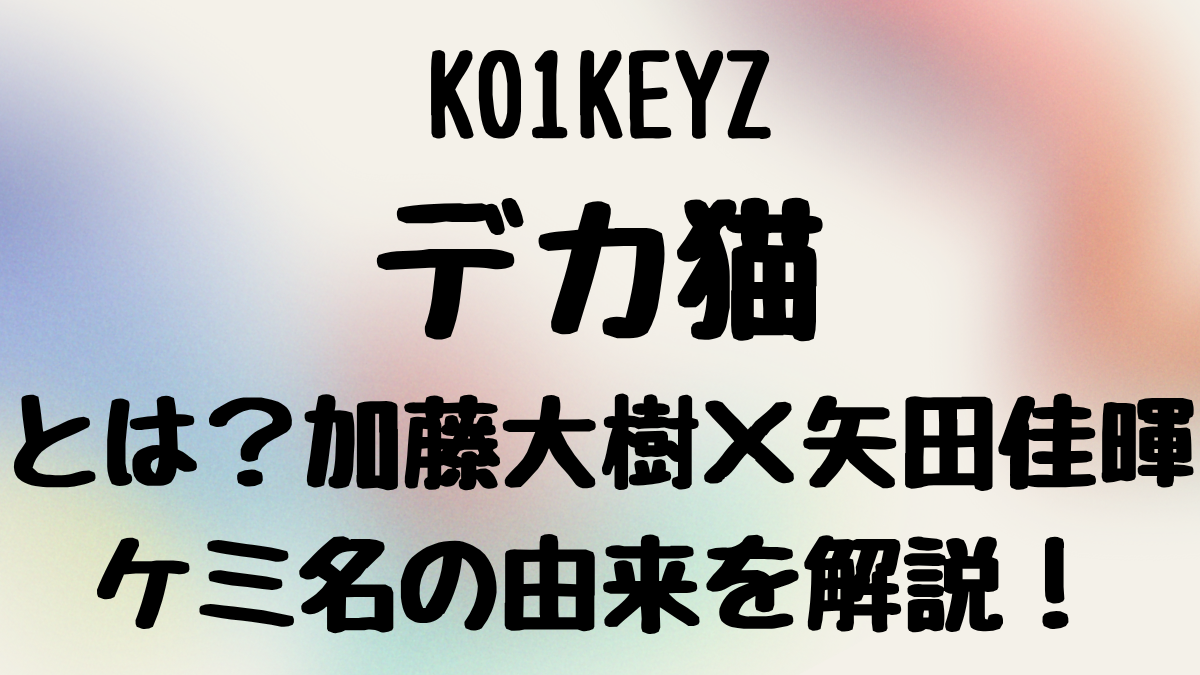
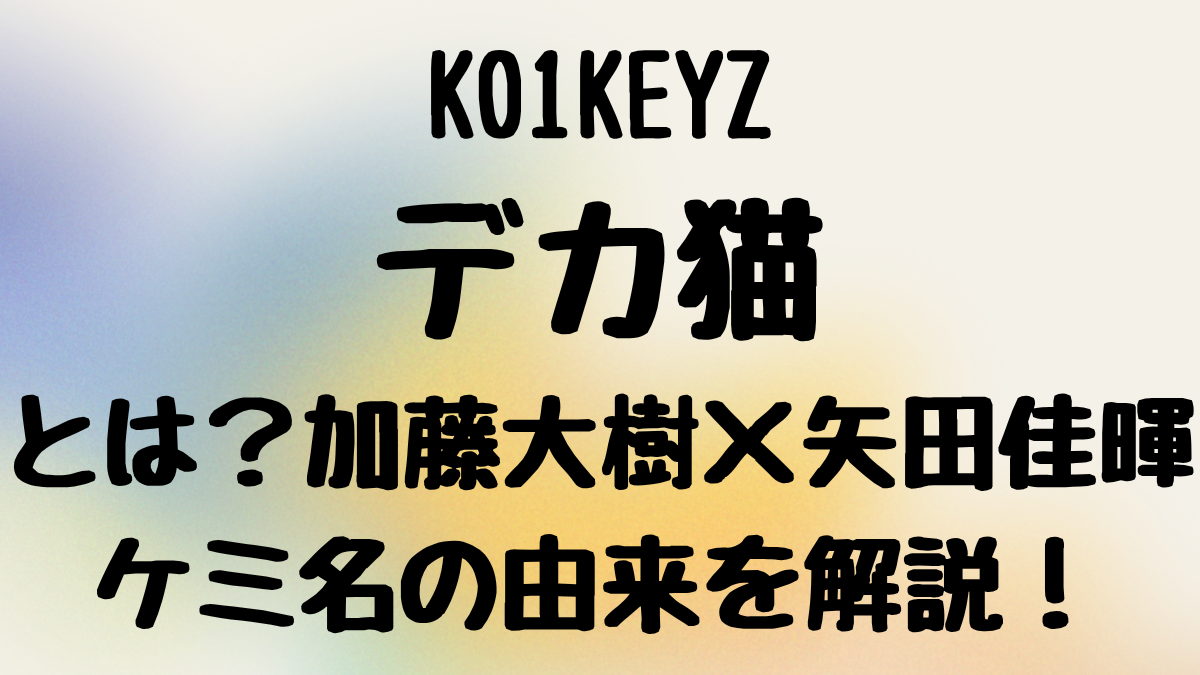
docs(canva-mcp): コイキーズのアイキャッチはCanva MCPで作り、毎回色を変えるルールを追加
- トモキ指示(2026-07-15): KO1KEYZサイトのアイキャッチは今後すべてCanva MCP方式で作る。色は毎回ランダムに変える(全記事が違う色でカラフルなのがサイトの統一感のため)
- 色替え用の背景アセット9種(Glowy Gradient Abstract Brush Stroke Blob)をカタログ化
- 複製元はページ36に固定。他ページはfind_and_replace_textが「1つのregion内の改行より後ろ」を置換できずサイレント失敗する(successが返るのに反映されない)ため使用禁止
- blog-uploadスキルのSTEP4とCLAUDE.mdのツール説明も同方針に更新(eyecatch_koikeyz.pyはフォールバック扱いに降格)

diff --git a/CLAUDE.md b/CLAUDE.md
@@ -73,8 +73,8 @@
   - YouTube文字起こしは「字幕優先(youtube-transcript-api)→無ければWhisper(faster-whisper)で音声文字起こし」の2段構成。GPUがあれば自動でCUDAを使い(無ければCPU int8)、複数動画処理時は字幕チェックの並列化・音声DLと文字起こしのパイプライン化で高速化してある(2026-07-02改良)。
 - **Codex**: 記事・文書生成に使用。詳細は codex-writing スキル参照。
 - **LINE通知**(`tools/line_notify.py`): 記事の更新・リライト提案時、および`koikeyz-monitor`の毎朝の監視結果報告でLINEへプッシュ通知するツール(2026-07-05追加)。LINE Notifyは2025年3月にサービス終了済みのため、LINE公式アカウント(Messaging API)のチャネルアクセストークンを使う方式。`.env`の`LINE_CHANNEL_ACCESS_TOKEN`/`LINE_USER_ID`が未設定の場合は通知だけスキップされ、他の処理は止まらない。初回セットアップ手順は[docs/line-notify-setup.md](docs/line-notify-setup.md)を参照(フォロワーID一覧APIは無料プランだと使えないため要注意)。呼び出し元はkoikeyz-rewriteスキル(リライト提案時・更新完了時・Gemini失敗時のフォールバック要約)と`tools/koikeyz-monitor/x_monitor.py`(毎朝、結果に関わらず必ず通知)。なお「LINE返信でマツが自動執筆する」パイプラインは本番ドメインのDNS移行リスクを理由に見送り済み([docs/line-notify-setup.md](docs/line-notify-setup.md)参照)。
-- **Canva MCP**(`https://mcp.canva.com/mcp`): chomoand-1.comのアイキャッチをCanvaの本物のテンプレ・フォントで作るための公式リモートMCP(2026-07-15追加、`.mcp.json`に登録済み)。**PCごとに`/mcp`からの認証が必要**。接続状況・運用フロー・プランごとの制限は[docs/canva-mcp.md](docs/canva-mcp.md)参照。
-- **KO1KEYZアイキャッチ生成**(`tools/eyecatch_koikeyz.py`): chomoand-1.com(コイキーズブログ)専用のアイキャッチ生成ツール(2026-07-15追加)。既存記事はすべてトモキがCanvaの「Webinar/Keynote Presentation」テンプレで作ったデザインで統一されているため、マツが記事を書くときも同じ見た目になるようHTML+Playwrightで再現する。フォント(M PLUS Rounded 1c Black、OFL)は`assets/fonts/`に同梱済み。使い方・デザイン仕様は[docs/eyecatch-style.md](docs/eyecatch-style.md)参照。**コイキーズ記事のアイキャッチを勝手に別デザインで作らないこと。**
+- **Canva MCP**(`https://mcp.canva.com/mcp`): chomoand-1.com(コイキーズブログ)のアイキャッチを作るための公式リモートMCP(2026-07-15追加、`.mcp.json`に登録済み)。**コイキーズ記事のアイキャッチは必ずこれで作る**(2026-07-15にトモキが指示・動作検証済み)。トモキの既存デザイン(`DAG_zqaJE_8`)のページ36を複製してテキストを差し替える方式で、フォント・レイアウトが本物と完全に一致する。**背景の色は毎回ランダムに変える**(サイトの全記事が違う色で統一されているため)。**PCごとに`/mcp`からの認証が必要**。手順・ハマりどころ・色替え用アセット一覧は[docs/canva-mcp.md](docs/canva-mcp.md)参照。
+- **KO1KEYZアイキャッチ生成**(`tools/eyecatch_koikeyz.py`): 上記Canva MCPの**フォールバック**(2026-07-15追加)。Canvaが認証切れなどで使えないときだけ使う。HTML+Playwrightで見た目を再現するがフォントだけ本物と違う(M PLUS Rounded 1c Black)。使い方・デザイン仕様は[docs/eyecatch-style.md](docs/eyecatch-style.md)参照。**コイキーズ記事のアイキャッチを勝手に別デザインで作らないこと。**
 - **YouTube急上昇取得**(`tools/youtube_trending.py`): **2026-07-14に路線撤回したため現在は未使用**(chomoand.comは恋リア特化へ。ツールとスキルは消さずに残してある)。以下は当時の説明。chomoand.com旧方針(TikTok/YouTube発バズインフルエンサーのwiki記事)のネタ探し用。YouTube Data API v3で日本の急上昇動画を取得する。`.env`の`YOUTUBE_API_KEY`が必要(2026-07-06追加)。セットアップ手順は[docs/youtube-api-setup.md](docs/youtube-api-setup.md)、使い方は[youtube-trendingスキル](.claude/skills/youtube-trending/SKILL.md)参照。YouTube急上昇ページ・TikTok Creative CenterはどちらもJS描画でWebFetchでは中身が取れないため、API経由で取得する方式にした。TikTok側は現時点で自動取得の手段なし。
 - **Xトレンド監視**(`tools/x-trend-monitor/`): **2026-07-14にユーザー指示で停止中**(タスクスケジューラの`X-Trend-Monitor`を`Disable-ScheduledTask`で無効化。削除はしていないので`Enable-ScheduledTask`で復帰できる)。再開の指示があるまで勝手に有効化しないこと。以下は仕組みの説明。chomoand.com(トレンドブログ)の全自動記事化パイプラインの入口(2026-07-10追加)。タスクスケジューラ(タスク名: `X-Trend-Monitor`)で6時間おきに`trend_monitor.py`がXのトレンドページ(x.com/explore/tabs/trending)を取得し、新トレンド(同一語24時間クールダウン、1回最大3件、プロモーション枠除外)を検知すると`claude -p`でヘッドレスClaudeを起動して[x-trend-articleスキル](.claude/skills/x-trend-article/SKILL.md)の自動記事化(リサーチ→執筆→**下書き**投稿→LINE通知)を実行する。トークン節約のため、実行間隔は当初の30分から6時間に延ばし、パイプラインが呼ぶClaudeも`--model claude-sonnet-5`(定数`CLAUDE_MODEL`)でSonnet指定にしてある(2026-07-11、ユーザー指示)。`claude`はネイティブインストール(`~/.local/bin/claude.exe`)でタスクスケジューラの最小PATH環境では名前解決できないため、`resolve_claude_command()`がフルパスで解決する(PATH非依存)。フェーズ1運用のため**公開は必ずユーザー承認制**(LINE通知を見て「公開して」と指示)。koikeyz-monitorと同じログイン済みプロファイル方式だがプロファイルは独立(`%USERPROFILE%\x_trend_monitor_profile`、初回にPCごとに`login_x.py`を手動実行)。多重起動は`pipeline.lock`とタスク側`IgnoreNew`で防止。`monitor_state.json`・`reports/`はGit管理外。ログイン状態とタスク登録がPC固有なため、登録したPC上でのみ動作する。
 - **Googleインデックス登録**(`tools/google_indexing.py`): 記事公開時にURLをGoogle Indexing APIへ送信し、即時インデックス登録をリクエストするツール(2026-07-09追加)。[publishスキル](.claude/skills/publish/SKILL.md)から自動で呼ばれる。サービスアカウントのJSON鍵が必要で、`.env`の`GOOGLE_INDEXING_CREDENTIALS_PATH`が未設定の場合は通知だけスキップされ、公開処理自体は止まらない(LINE通知と同じフェイルセーフ方式)。セットアップ手順は[docs/google-indexing-setup.md](docs/google-indexing-setup.md)参照。Indexing APIは規約上Job Posting/BroadcastEvent専用が本来の用途で、ブログ記事への利用は黙認されている状態である点に注意。

diff --git a/docs/canva-mcp.md b/docs/canva-mcp.md
@@ -39,29 +39,64 @@ chomoand-1.com(コイキーズブログ)のアイキャッチは、トモキがC
 
 ## 運用フロー(検証済み)
 
-1. **元デザインから1ページだけ複製する**
+1. **元デザインから「ページ36」だけを複製する**
    - `copy-design(design_id="DAG_zqaJE_8", page_numbers=[36])`
-   - ページ番号は「文言の行数構成が近い既存ページ」を選ぶ。36は4行構成の標準形。
+   - **複製元は必ずページ36にする**。理由は下の「⚠ ページ36以外を使ってはいけない理由」を参照。
    - → 1ページだけの新デザインができる
 
 2. **編集トランザクションを開いてテキスト要素IDを取得する**
    - `start-editing-transaction(design_id=<複製したID>)`
-   - レスポンスに`element_id`と現在の4行テキスト、プレビュー画像が返る
+   - レスポンスに`element_id`と現在の4行テキスト、背景画像2枚の`element_id`、プレビュー画像が返る
 
 3. **行単位でテキストを差し替える**
    - **必ず`find_and_replace_text`を行ごとに1回ずつ**呼ぶ(4回)
    - ⚠ `replace_text`で4行まとめて置換すると**行ごとのフォントサイズが飛んで全部同じ大きさになる**。絶対に使わないこと。
    - ついでに`update_title`でデザイン名を記事名にしておくと後で探しやすい
 
-4. **コミットする**
+4. **背景の色を変える(毎回必ずやる)**
+   - トモキの指示(2026-07-15):「サイトのアイキャッチは全部色が違ってカラフル。**毎回色を変えること**。色使いはマツがランダムに選んでよい」
+   - ブラシストローク要素(ページ36では`...-LBsTwKB5X1rWZS4T`、alt_textが`a colorful gradient brush stroke`のほう)に対して:
+     - `update_fill`で**下のアセット一覧からランダムに1つ選んで**差し替える
+     - `resize_element`(`preserve_aspect_ratio: true`、width 1600〜2300程度)+ `position_element`でランダムに配置する
+   - ブラシが画面の外に大きくはみ出していると色がほとんど出ない。**画面中央〜全体を覆うくらいに配置する**と色がはっきり出る(例: width 2100 / left -90 / top -430)
+   - もう1枚のグレイン地(`MAEn_b947YY`、alt_textなし・decorative)は下地なのでそのままでよい
+
+5. **コミットする**
    - `commit-editing-transaction(transaction_id=...)`
    - ⚠ これを呼ばないと変更は**破棄される**
 
-5. **PNGで書き出す**
+6. **PNGで書き出す**
    - `export-design(design_id=..., format={type:"png", lossless:true, width:1200, height:675})`
    - 返ってきたURLを`Invoke-WebRequest`で`images/<記事名>_eyecatch_canva.png`に保存
 
-6. **WordPressにメディアアップロードして`featured_media`に設定**([blog-uploadスキル](../.claude/skills/blog-upload/SKILL.md))
+7. **WordPressにメディアアップロードして`featured_media`に設定**([blog-uploadスキル](../.claude/skills/blog-upload/SKILL.md))
+
+## 背景アセット一覧(色替え用・ここからランダムに選ぶ)
+
+すべてCanva標準の「Glowy Gradient Abstract Brush Stroke Blob」シリーズ。トモキが既存記事で実際に使っているものなので、どれを選んでもサイトの世界観から外れない。
+
+| asset_id | 色味 |
+|---|---|
+| `MAEn_R6sFPg` | 紫+オレンジ+赤+水色(鮮やか) |
+| `MAEn_fa8Kow` | 赤+黄+緑+紫(レインボー) |
+| `MAEn_YBWNzA` | 青メイン+黄+赤 |
+| `MAEn_XQvXLE` | 青+黄+オレンジ |
+| `MAEn_avMm94` | 赤+オレンジ+水色+紫 |
+| `MAEn_YuJcNg` | 青紫+赤+緑 |
+| `MAEn_VCWBdg` | 青+黄+ピンク |
+| `MAEn_UrK2cA` | 青+赤(淡いパステル) |
+| `MAEn_VZqPFM` | サーモン+緑(ページ36の初期値) |
+
+## ⚠ ページ36以外を使ってはいけない理由(ハマりどころ)
+
+`find_and_replace_text`には**「1つの行ブロック(region)の中の、改行より後ろのテキストは置換できない」**という挙動がある。しかも失敗しても`status: success`が返る(**サイレント失敗**)ので気づきにくい。
+
+- ページ36は4行が**それぞれ独立したregion**になっているため、4行すべて置換できる ✅
+- ページ11などは3〜4行目が`"12人分の意味・由来は？\n徹底解説！\n"`のように**1つのregionに結合**していて、後半の行がどうやっても置換できない ❌
+
+もし別ページを使いたくなったら、`start-editing-transaction`のレスポンスで`richtexts[].regions[].text`を確認し、**途中に`\n`を含むregionが無いこと**を必ず確かめること。
+
+なお、**色を変えるのに複製元ページを変える必要はない**(ページ36 + `update_fill`でのアセット差し替えで色は十分変わる)。
 
 ## できること・できないこと(プラン制限)
 
@@ -82,5 +117,6 @@ Canva MCPが使えない・認証切れのときは`tools/eyecatch_koikeyz.py`(H
 
 - 「デカ猫」記事(chomoand-1.com、記事ID **10569**、下書き)
   - 複製先デザイン: `DAHPXycEI_w`(元の36ページ目を複製)
-  - 出力: `images/ko1keyz_dekaneko_eyecatch_canva.png`
-  - 既存記事とフォント・背景が完全に一致することを確認済み(2026-07-15)
+  - 背景: `MAEn_XQvXLE`(青+黄+オレンジ)に差し替え、width 2100 / left -90 / top -430 で配置
+  - 出力: `images/ko1keyz_dekaneko_eyecatch_canva.png` → WordPressメディアID 10578
+  - 既存記事とフォントが完全に一致し、かつ色は他記事とかぶらないことを確認済み(2026-07-15)
